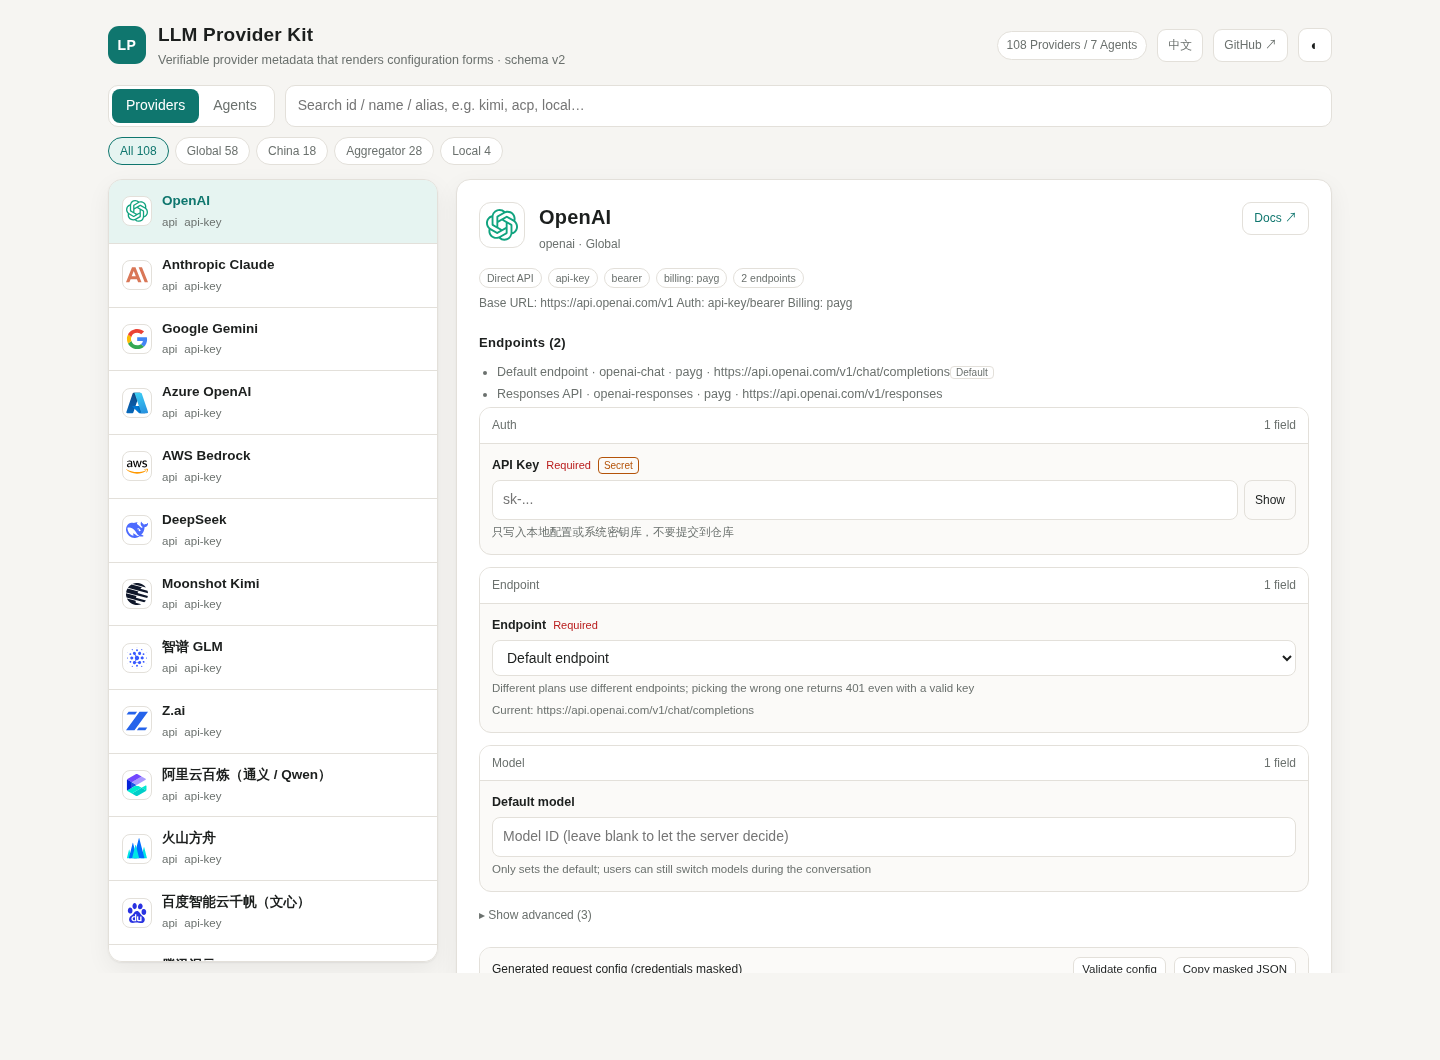
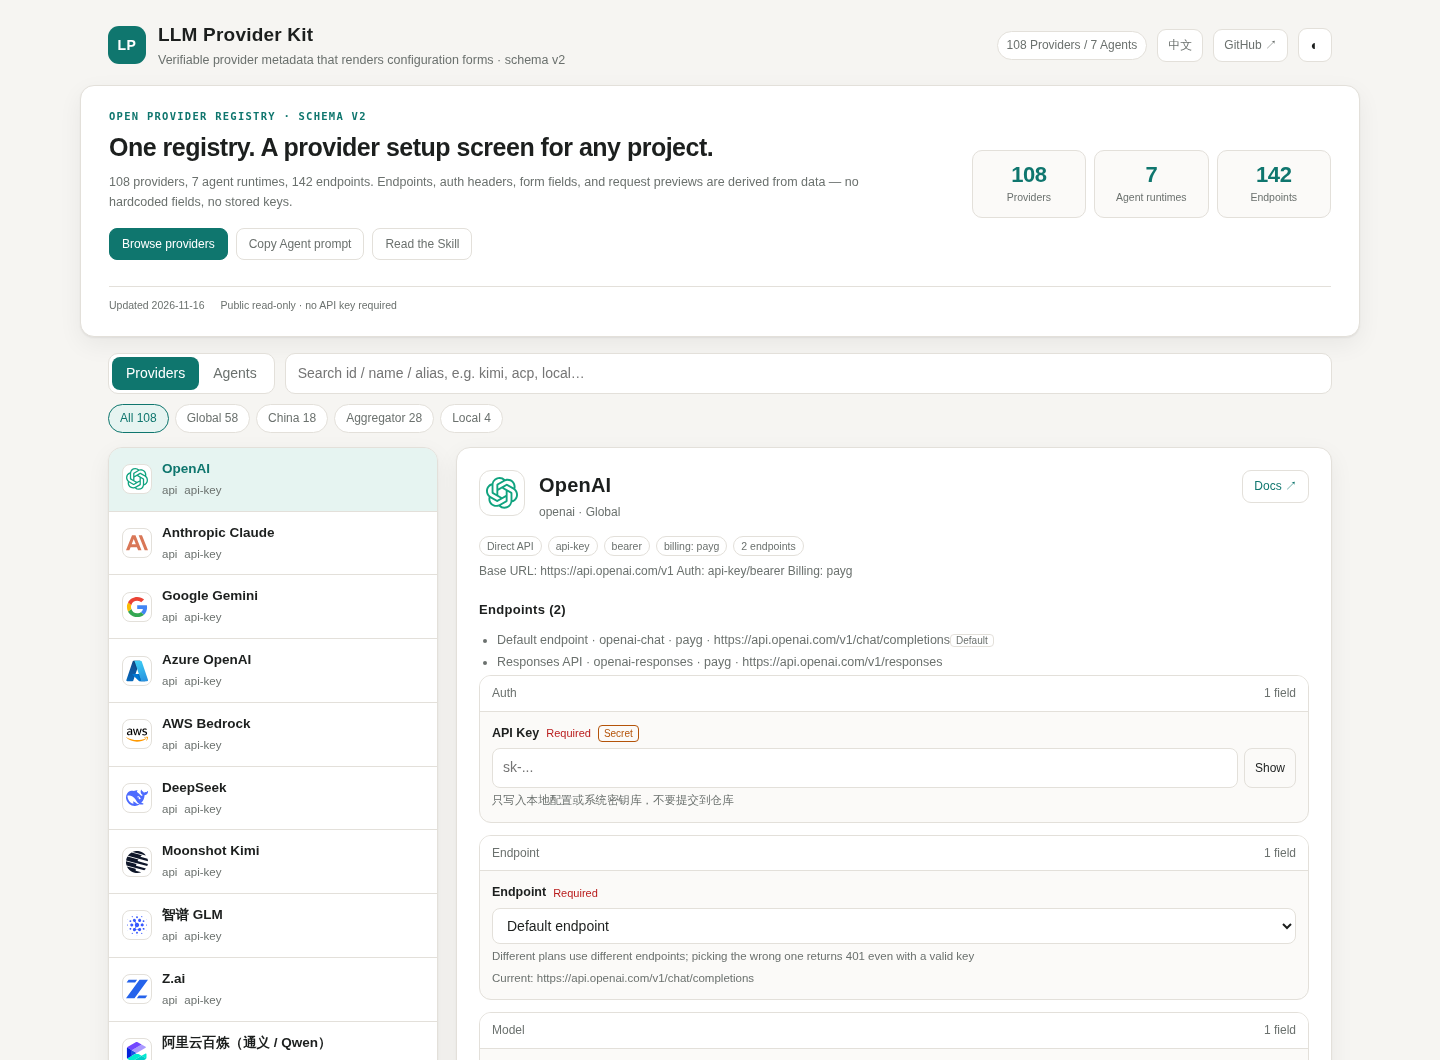
deploy: publish demo site 406607e4f2bf6e4ace0db124484a22bae55d83b7

diff --git a/index.html b/index.html
@@ -4,7 +4,7 @@
 <meta charset="utf-8">
 <meta name="viewport" content="width=device-width, initial-scale=1">
 <title>LLM Provider Kit · Provider 配置页</title>
-<meta name="description" content="AI Provider 的配置元数据：baseURL、鉴权头、多接入面、表单字段与请求预览。零依赖，MIT。">
+<meta name="description" content="AI Provider 的配置元数据：baseURL、鉴权头、多接入点、表单字段与请求预览。无运行时依赖，MIT。">
 <meta property="og:title" content="LLM Provider Kit">
 <meta property="og:description" content="一份可校验、可直接渲染配置表单的 AI Provider 配置注册表。">
 <meta property="og:type" content="website">
@@ -47,6 +47,31 @@
   }
   button, input, select, textarea { font: inherit; color: inherit; }
   button { cursor: pointer; }
+  .intro { max-width: 1280px; margin: 0 auto 16px; padding: 22px 28px;
+    display: grid; grid-template-columns: minmax(0, 1.4fr) minmax(280px, .6fr); gap: 24px;
+    align-items: center; background: var(--panel); border: 1px solid var(--line);
+    border-radius: var(--radius); box-shadow: var(--shadow); }
+  .intro-copy { min-width: 0; }
+  .eyebrow { margin: 0 0 8px; color: var(--accent); font-family: ui-monospace, SFMono-Regular, Menlo, monospace;
+    font-size: 10.5px; font-weight: 700; letter-spacing: .12em; text-transform: uppercase; }
+  .intro h2 { margin: 0; max-width: 760px; font-size: 25px; line-height: 1.22; letter-spacing: -.02em; }
+  .lede { margin: 9px 0 0; max-width: 760px; color: var(--muted); font-size: 12.5px; line-height: 1.65; }
+  .intro-actions { display: flex; flex-wrap: wrap; gap: 8px; margin-top: 15px; }
+  .btn { display: inline-flex; align-items: center; justify-content: center; gap: 6px;
+    min-height: 32px; padding: 6px 12px; border-radius: 8px; border: 1px solid var(--line);
+    background: var(--panel); color: var(--muted); font-size: 12px; text-decoration: none; }
+  .btn:hover { border-color: var(--accent); color: var(--accent); }
+  .btn.primary { background: var(--accent); border-color: var(--accent); color: #fff; }
+  html[data-theme="dark"] .btn.primary { color: #06201c; }
+  .btn.primary:hover { color: #fff; filter: brightness(1.04); }
+  html[data-theme="dark"] .btn.primary:hover { color: #06201c; }
+  .intro-stats { display: grid; grid-template-columns: repeat(3, minmax(0, 1fr)); gap: 8px; }
+  .stat-box { min-width: 0; padding: 12px 10px; border: 1px solid var(--line); border-radius: 10px;
+    background: var(--panel-2); text-align: center; }
+  .stat-box strong { display: block; color: var(--accent); font-size: 22px; line-height: 1.1; letter-spacing: -.02em; }
+  .stat-box span { display: block; margin-top: 4px; color: var(--muted); font-size: 10.5px; line-height: 1.3; }
+  .intro-meta { grid-column: 1 / -1; display: flex; flex-wrap: wrap; gap: 6px 16px;
+    color: var(--muted); font-size: 10.5px; border-top: 1px solid var(--line); padding-top: 10px; margin-top: 2px; }
   .topbar { display: flex; align-items: center; justify-content: space-between; gap: 16px;
     padding: 20px 28px 14px; max-width: 1280px; margin: 0 auto; }
   .brand { display: flex; align-items: center; gap: 12px; }
@@ -166,6 +191,11 @@
   .foot a { color: inherit; text-decoration: none; border-bottom: 1px solid var(--line); }
   .foot a:hover { color: var(--accent); border-color: var(--accent); }
   @media (max-width: 900px) {
+    .intro { grid-template-columns: 1fr; gap: 16px; padding: 18px 16px; }
+    .intro h2 { font-size: 22px; }
+    .intro-stats { grid-template-columns: repeat(3, minmax(0, 1fr)); }
+    .stat-box { padding: 9px 6px; }
+    .stat-box strong { font-size: 19px; }
     main { grid-template-columns: 1fr; }
     .list { max-height: 260px; }
     .topbar { padding: 16px 16px 10px; }
@@ -189,6 +219,28 @@
     <button class="icon-btn" id="themeBtn" title="切换深浅色">◐</button>
   </div>
 </header>
+
+<section class="intro" aria-labelledby="introTitle">
+  <div class="intro-copy">
+    <p class="eyebrow" id="introEyebrow"></p>
+    <h2 id="introTitle"></h2>
+    <p class="lede" id="introLede"></p>
+    <div class="intro-actions">
+      <button class="btn primary" id="introBrowse" type="button"></button>
+      <button class="btn" id="introCopy" type="button" aria-live="polite"></button>
+      <a class="btn" id="introSkill" href="https://lawson2019.github.io/llm-provider-kit/skills/llm-provider-kit/SKILL.md" target="_blank" rel="noopener"></a>
+    </div>
+  </div>
+  <div class="intro-stats" aria-label="Registry statistics">
+    <div class="stat-box"><strong id="introProviders">—</strong><span id="introProvidersLabel"></span></div>
+    <div class="stat-box"><strong id="introAgents">—</strong><span id="introAgentsLabel"></span></div>
+    <div class="stat-box"><strong id="introEndpoints">—</strong><span id="introEndpointsLabel"></span></div>
+  </div>
+  <div class="intro-meta">
+    <span id="introUpdated"></span>
+    <span id="introNote"></span>
+  </div>
+</section>
 
 <section class="toolbar">
   <div class="seg" id="modeSeg">
@@ -227,10 +279,22 @@ function detectLang() {
 const I18N = {
   zh: {
     title: 'LLM Provider Kit · Provider 配置页',
-    metaDesc: 'AI Provider 的配置元数据：baseURL、鉴权头、多接入面、表单字段与请求预览。零依赖，MIT。',
+    metaDesc: 'AI Provider 的配置元数据：baseURL、鉴权头、多接入点、表单字段与请求预览。无运行时依赖，MIT。',
     ogDesc: '一份可校验、可直接渲染配置表单的 AI Provider 配置注册表。',
     subtitle: '可校验、可直接渲染配置表单的 Provider 元数据 · schema v2',
     stats: '{n} 个 Provider / {m} 个 Agent',
+    introEyebrow: 'OPEN PROVIDER REGISTRY · SCHEMA V2',
+    introTitle: '一份注册表，生成任意项目的 Provider 配置界面。',
+    introLede: '收录 {p} 个 Provider、{a} 个 Agent 运行时、{e} 个接入点。端点、鉴权、表单和请求预览都由数据推导；字段不写死，密钥不保存。',
+    introBrowse: '浏览 Provider',
+    introCopy: '复制 Agent 提示词',
+    introCopied: '已复制',
+    introSkill: '查看 Skill',
+    introProviders: 'Provider',
+    introAgents: 'Agent 运行时',
+    introEndpoints: '接入点',
+    introUpdated: '数据更新：{date}',
+    introNote: '公开只读 · 不需要 API Key',
     themeTitle: '切换深浅色',
     langSwitchTo: '切换为 English',
     tabProviders: 'Provider',
@@ -256,7 +320,7 @@ const I18N = {
     emptyDetailProvider: '选择左侧的 Provider 查看可渲染的配置表单',
     emptyDetailAgent: '选择左侧的 Agent / 运行时',
     billingBadge: '计费：{mode}',
-    endpointCount: '{n} 个接入面',
+    endpointCount: '{n} 个接入点',
     show: '显示',
     hide: '隐藏',
     advHide: '▾ 收起高级项',
@@ -275,7 +339,7 @@ const I18N = {
     current: '当前：{desc}',
     docsLink: '官方文档 ↗',
     detailDesc: 'Base URL：{base}　鉴权：{auth}　计费：{billing}',
-    endpointsTitle: '接入面（{n}）',
+    endpointsTitle: '接入点（{n}）',
     defaultTag: '默认',
     oauthDetail: '　登录发起：{initiate}　轮询：{poll}',
     riskTitle: '风险 {level} / {variant}',
@@ -303,10 +367,22 @@ const I18N = {
   },
   en: {
     title: 'LLM Provider Kit · Provider Registry',
-    metaDesc: 'Configuration metadata for AI providers: baseURL, auth headers, multiple endpoints, form fields and request preview. Zero dependencies, MIT.',
+    metaDesc: 'Configuration metadata for AI providers: baseURL, auth headers, multiple endpoints, form fields and request preview. No runtime dependencies, MIT.',
     ogDesc: 'A verifiable AI provider registry that renders configuration forms directly.',
     subtitle: 'Verifiable provider metadata that renders configuration forms · schema v2',
     stats: '{n} Providers / {m} Agents',
+    introEyebrow: 'OPEN PROVIDER REGISTRY · SCHEMA V2',
+    introTitle: 'One registry. A provider setup screen for any project.',
+    introLede: '108 providers, 7 agent runtimes, 142 endpoints. Endpoints, auth headers, form fields, and request previews are derived from data — no hardcoded fields, no stored keys.',
+    introBrowse: 'Browse providers',
+    introCopy: 'Copy Agent prompt',
+    introCopied: 'Copied',
+    introSkill: 'Read the Skill',
+    introProviders: 'Providers',
+    introAgents: 'Agent runtimes',
+    introEndpoints: 'Endpoints',
+    introUpdated: 'Updated {date}',
+    introNote: 'Public read-only · no API key required',
     themeTitle: 'Toggle light/dark theme',
     langSwitchTo: 'Switch to 中文',
     tabProviders: 'Providers',
@@ -378,6 +454,18 @@ const I18N = {
     listSep: ', ',
   },
 };
+
+const AGENT_PROMPT = `You are adding an LLM provider configuration UI to my project. Do NOT clone any repository.
+
+1. Read the manifest first — it carries the version, record counts, and canonical resource URLs:
+   https://lawson2019.github.io/llm-provider-kit/manifest.json
+
+2. Read the Skill guide for field mapping, auth-header rules, endpoint resolution, secret masking, and request-preview rules:
+   https://lawson2019.github.io/llm-provider-kit/skills/llm-provider-kit/SKILL.md
+
+3. Fetch providers, agents, tiers, and schema from the manifest's resources.
+4. Detect my project's stack — React, Vue, Svelte, vanilla JS, or static HTML — and generate a matching provider configuration screen.
+5. Use only endpoints and fields the registry defines; do not add plan or region selectors it does not define. Never invent providers, agents, or endpoints, and never save or send API keys.`;
 
 let lang = detectLang();
 
@@ -1141,6 +1229,25 @@ function applyStaticTexts() {
   const ogDesc = document.querySelector('meta[property="og:description"]');
   if (ogDesc) ogDesc.content = t('ogDesc');
   document.getElementById('subtitle').textContent = t('subtitle');
+  const endpoints = DATA.providers.reduce((n, provider) => n + (provider.endpoints?.length ?? 0), 0);
+  document.getElementById('introEyebrow').textContent = t('introEyebrow');
+  document.getElementById('introTitle').textContent = t('introTitle');
+  document.getElementById('introLede').textContent = t('introLede', {
+    p: DATA.providers.length,
+    a: DATA.agents.length,
+    e: endpoints,
+  });
+  document.getElementById('introBrowse').textContent = t('introBrowse');
+  document.getElementById('introCopy').textContent = t('introCopy');
+  document.getElementById('introSkill').textContent = t('introSkill');
+  document.getElementById('introProviders').textContent = DATA.providers.length;
+  document.getElementById('introAgents').textContent = DATA.agents.length;
+  document.getElementById('introEndpoints').textContent = endpoints;
+  document.getElementById('introProvidersLabel').textContent = t('introProviders');
+  document.getElementById('introAgentsLabel').textContent = t('introAgents');
+  document.getElementById('introEndpointsLabel').textContent = t('introEndpoints');
+  document.getElementById('introUpdated').textContent = t('introUpdated', { date: DATA.updatedAt });
+  document.getElementById('introNote').textContent = t('introNote');
   document.getElementById('search').placeholder = t('searchPlaceholder');
   document.getElementById('tabProviders').textContent = t('tabProviders');
   document.getElementById('tabAgents').textContent = t('tabAgents');
@@ -1189,6 +1296,36 @@ document.getElementById('langBtn').addEventListener('click', () => {
   applyLangState();
   renderAll();
 });
+
+let copyResetTimer;
+async function copyAgentPrompt() {
+  const button = document.getElementById('introCopy');
+  let copied = false;
+  try {
+    await navigator.clipboard.writeText(AGENT_PROMPT);
+    copied = true;
+  } catch {
+    const area = document.createElement('textarea');
+    area.value = AGENT_PROMPT;
+    area.setAttribute('readonly', '');
+    area.style.position = 'fixed';
+    area.style.opacity = '0';
+    document.body.appendChild(area);
+    area.select();
+    try { copied = document.execCommand('copy'); } catch { copied = false; }
+    area.remove();
+  }
+  if (!copied) return;
+  clearTimeout(copyResetTimer);
+  button.textContent = t('introCopied');
+  copyResetTimer = setTimeout(() => { button.textContent = t('introCopy'); }, 1800);
+}
+
+document.getElementById('introBrowse').addEventListener('click', () => {
+  document.querySelector('.toolbar').scrollIntoView({ behavior: 'smooth', block: 'start' });
+  document.getElementById('search').focus();
+});
+document.getElementById('introCopy').addEventListener('click', copyAgentPrompt);
 
 applyLangState();
 renderAll();
